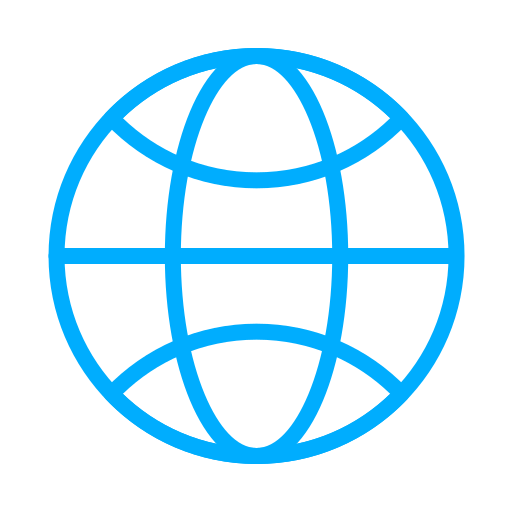
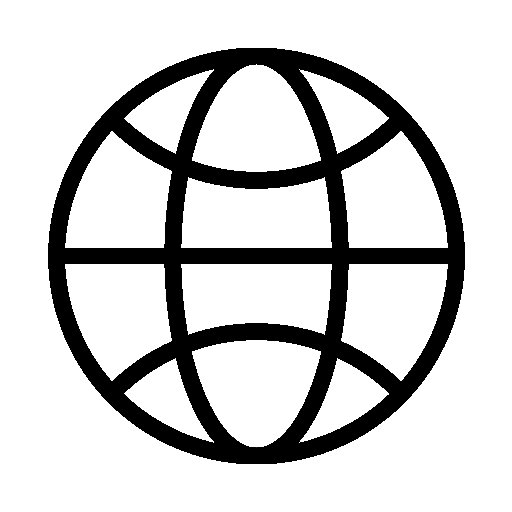
Version 11

Changed region(s): [[0.0938, 0.0938, 0.9062, 0.9062]]

diff --git a/monster-page-overview.html b/monster-page-overview.html
@@ -31,32 +31,34 @@
     </section>
 </header>
 
-<section>
+<section class="information">
     <div class="side-bar">
         <div>
-                <h2>Quick Facts</h2>
-                <img src="" alt="rathalos">
-            <div>
-                <p>Enemy type</p>
-            </div>
-            <div>
-                <p>Species</p>
-            </div>
-            <div>
-                <p>Elements</p>
-            </div>
-            <div>
-                <p>Aliments</p>
-            </div>
-            <div>
-                <p>Weakness</p>
-            </div>
-            <div>
-                <p>Ressistance</p>
-            </div>
-            <div>
-                <p>Location(s)</p>
-            </div>
+            <h2>Quick Facts</h2>
+            <img src="img/page/rathalos/icon-rathalos.png" alt="rathalos">
+        <div class="side-bar-content">
+            <p>Enemy type</p>
+            <p>Large Monster</p>
+        </div>
+        <div class="side-bar-content">
+            <p>Species</p>
+            <p>Flying wyvern</p>
+        </div>
+        <div class="side-bar-content">
+            <p>Elements</p>
+        </div>
+        <div class="side-bar-content">
+            <p>Aliments</p>
+        </div>
+        <div class="side-bar-content">
+            <p>Weakness</p>
+        </div>
+        <div class="side-bar-content">
+            <p>Ressistance</p>
+        </div>
+        <div class="side-bar-content">
+            <p>Location(s)</p>
+        </div>
         </div>
         <div>
             

diff --git a/style-monster-page-overview.css b/style-monster-page-overview.css
@@ -1,6 +1,7 @@
 body {
     margin: 0;
     font-family: "Roboto";
+    background-image:url(img/page/rathalos/background-rathalos.jpg);
 }
 
 nav {
@@ -12,6 +13,7 @@ nav {
     height: 8vh;
     top: 0;
     color: white;
+    z-index: 2;
 }
 
 nav a{
@@ -62,26 +64,50 @@ nav div.nav-info .badge-element {
     gap: 5px;
     border-radius: 15px;    
 }
-
-section {
-    margin-top: 8vh;
+header section {
+    height: 40%;
+}
+section.information {
+    margin-top: 40%;
+    height: 100vh;
+    background-color: #2E2F33;
 }
 
+
  .side-bar{
-    width: 20%;
+    width: 16%;
     height: 100%;
-    position: fixed;
+    margin-left: 4%;
+    position: sticky;
     display: flex;
     flex-direction: column;
     background-color:#ad5d5d;
     background-image: linear-gradient(to bottom,#ad5d5d ,#6A89A8,#7E6BAE, #C89092);
+    border-radius: 10px;
     gap: 10px;
+    text-align: center;
+    float: left;
+    z-index: 1;
+}
+
+.side-bar h2{
+    font-size: 28px;
+}
+
+.side-bar img {
+    width: 5em;
+    height: 5em;
+}
+
+.side-bar .side-bar-content {
+    s
 }
 
 .main{
-    width: 80%;
+    width: 74%;
     height: 100%;
-    margin-left: 20%;
+    margin-left: 22%;
+    margin-right: 4%;
     background-color: #2a2b2c;
     display: grid;
     grid-template-columns:  auto auto;

diff --git a/index.html b/index.html
@@ -39,7 +39,7 @@
                 <p>Detailed profiles of all monsters including stats, weaknesses, and behavioral patterns.</p>
             </div>
             <div>
-                <img src="img/globev2.png"">
+                <img src="img/globe.png"">
                 <p class="description-heading">Habitat Information</p>
                 <p>Ecological data on where monsters live, their territorial behaviors, and environmental interactions.</p>
             </div>

diff --git a/style.css b/style.css
@@ -43,7 +43,7 @@ header section {
     position: relative;
     width: 100%;
     height: 900px;
-    background-image: url("img/загружено.png");
+    background-image: url("img/background-header.png");
     background-repeat: no-repeat;
     background-size: cover; 
     display: flex;
